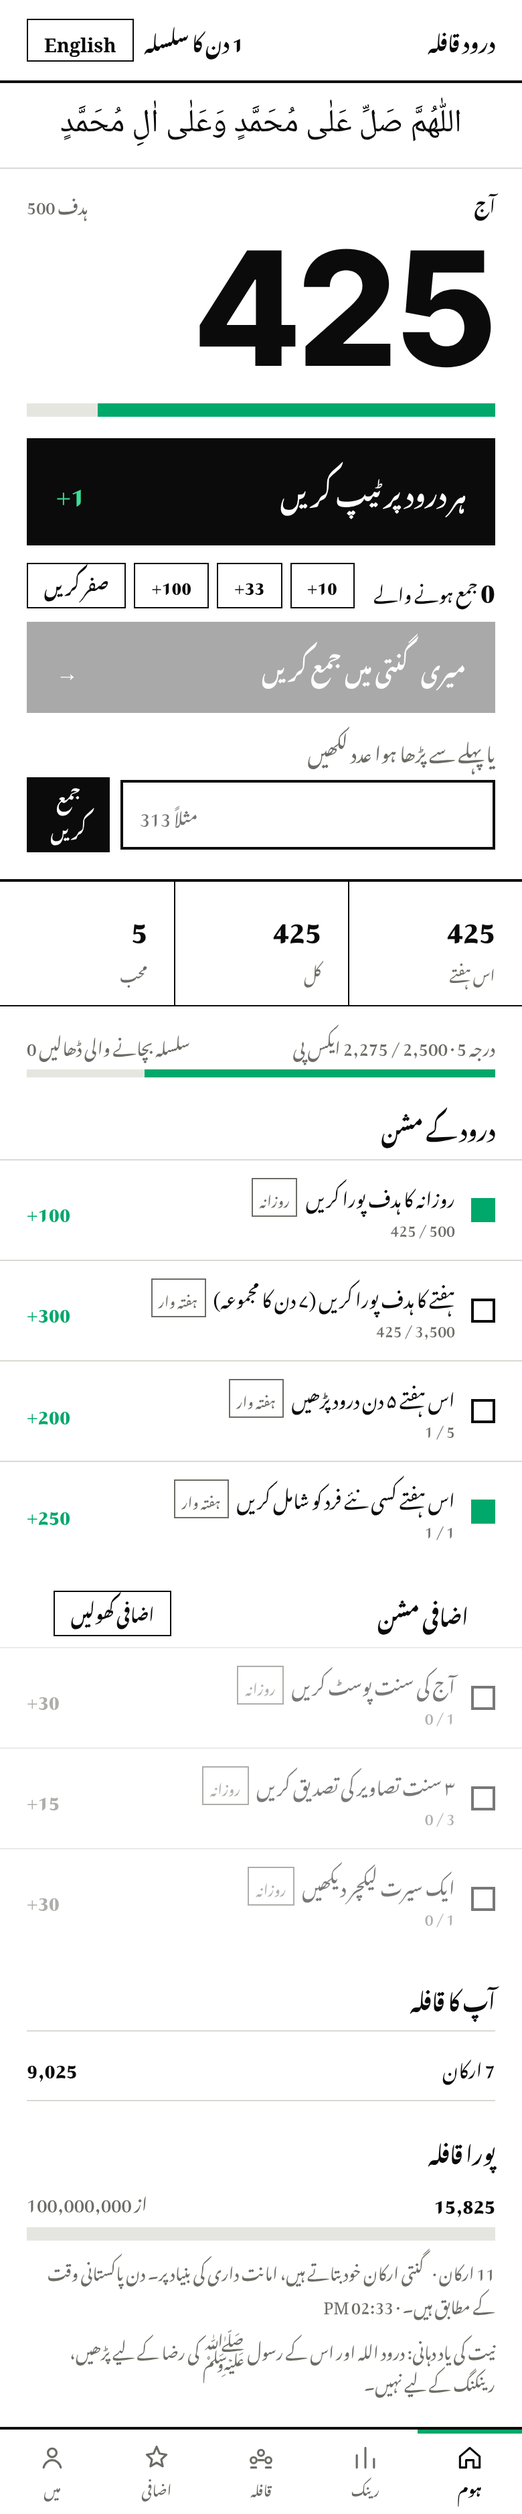
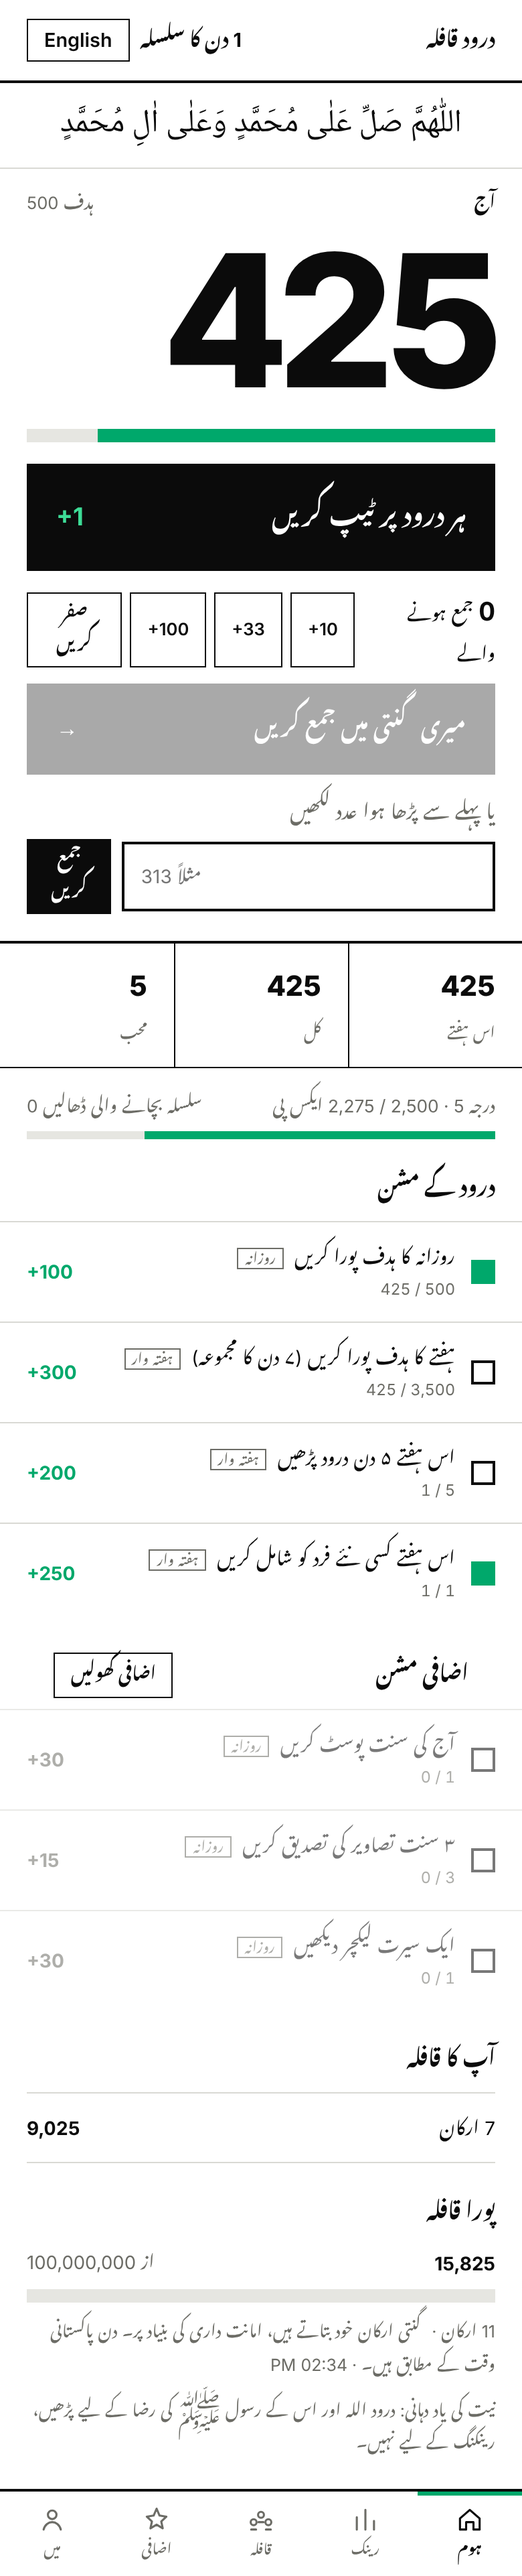
Keep numerals in Inter in Urdu so digits match English
Claude-Session: https://claude.ai/code/session_01UAFZ7UWiNCAUECCSEMQZ74

diff --git a/public/style.css b/public/style.css
@@ -6,7 +6,8 @@
 * { box-sizing: border-box; -webkit-tap-highlight-color: transparent; }
 html, body { margin: 0; background: var(--paper); color: var(--ink); }
 body { font: 14px/1.5 'Inter', Helvetica, Arial, system-ui, sans-serif; padding-bottom: 86px; }
-html[lang=ur] body { font-family: 'Noto Nastaliq Urdu', 'Noto Naskh Arabic', 'Jameel Noori Nastaleeq', serif; line-height: 1.95; }
+/* Inter first: it has no Arabic glyphs, so Urdu letters fall through to Nastaliq while every digit stays in Inter, identical to English */
+html[lang=ur] body { font-family: 'Inter', 'Noto Nastaliq Urdu', 'Noto Naskh Arabic', 'Jameel Noori Nastaleeq', serif; line-height: 1.95; }
 html[lang=ur] button, html[lang=ur] input { font-family: inherit; line-height: 1.7; }
 .arabic { font-family: 'Noto Naskh Arabic', 'Amiri', serif; line-height: 2.1; }
 a { color: inherit; }
@@ -59,7 +60,7 @@ form .blk, .go, .tap { margin: 0; }
 .sub { display: flex; justify-content: space-between; padding: 14px 20px 0; font-weight: 600; font-size: .8rem; }
 .sub span:last-child { color: var(--soft); font-weight: 400; }
 .big { padding: 0 20px; font-size: 8.6rem; font-weight: 800; letter-spacing: -7px; line-height: 1; margin-top: 6px; font-variant-numeric: tabular-nums; direction: ltr; text-align: start; }
-html[dir=rtl] .big { text-align: end; letter-spacing: -2px; font-size: 7.4rem; font-family: system-ui, sans-serif; }
+html[dir=rtl] .big { text-align: end; letter-spacing: -7px; }
 .bar { height: 10px; background: var(--track); position: relative; }
 .bar > i { position: absolute; inset: 0 auto 0 0; background: var(--green); transition: width .2s; }
 html[dir=rtl] .bar > i { inset: 0 0 0 auto; }

diff --git a/public/index.html b/public/index.html
@@ -9,7 +9,7 @@
   <link rel="icon" href="/icons/icon-192.png">
   <link rel="apple-touch-icon" href="/icons/icon-192.png">
   <link rel="preconnect" href="https://fonts.googleapis.com">
-  <link rel="stylesheet" href="https://fonts.googleapis.com/css2?family=Noto+Naskh+Arabic:wght@400;700&family=Noto+Nastaliq+Urdu:wght@400;700&display=swap">
+  <link rel="stylesheet" href="https://fonts.googleapis.com/css2?family=Inter:wght@200;300;400;500;600;700;800&family=Noto+Naskh+Arabic:wght@400;700&family=Noto+Nastaliq+Urdu:wght@400;700&display=swap">
   <link rel="stylesheet" href="/style.css">
 </head>
 <body>
